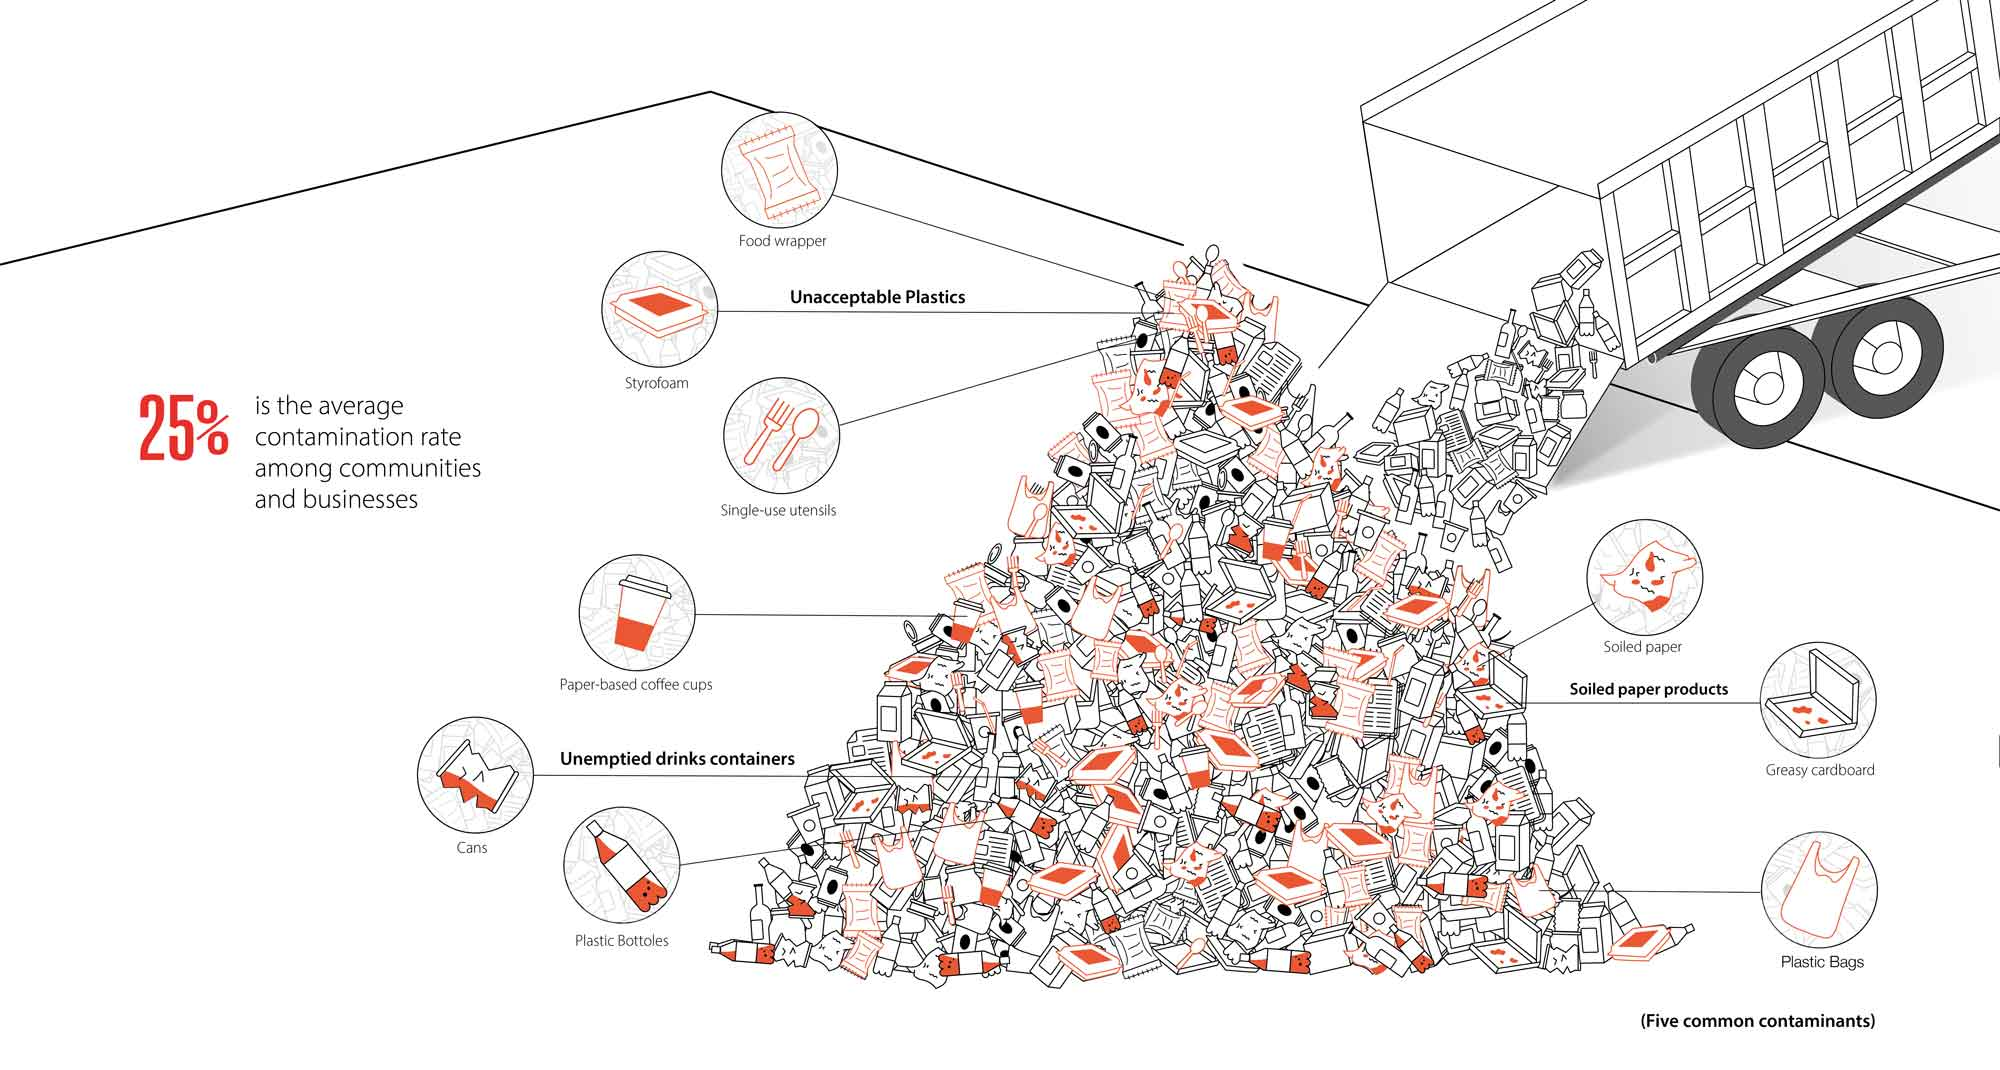
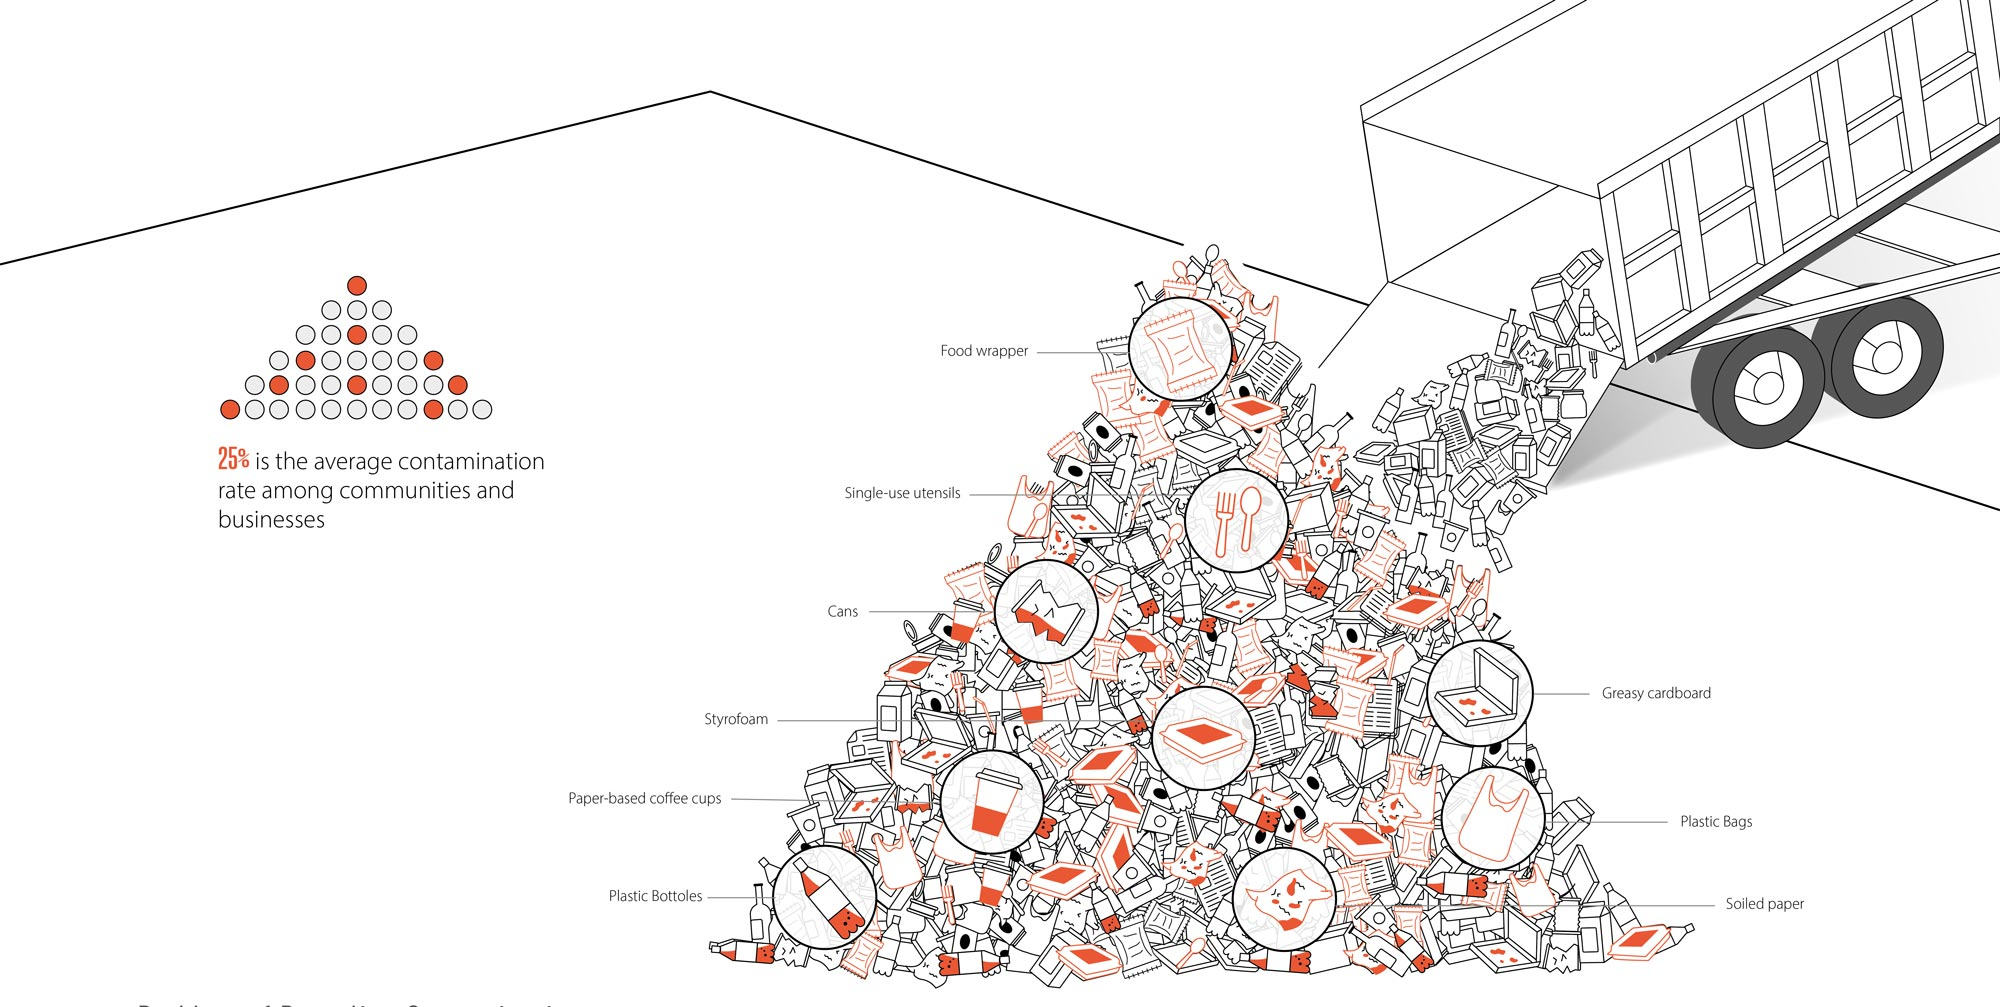
update

diff --git a/_projects/yuan.html b/_projects/yuan.html
@@ -301,7 +301,7 @@ advisor: "Thomas Starr"
 
 	<div class="flow-half">
 		<img src="{{ site.baseurl }}/assets/images/yuan/motivator3.png" alt="motivator3" style="width: 60%;">
-		<p style="color:gray">This infographic tries to inform the reader by deconstructing the ingredients of a hot/iced coffee cup to show which material is recyclable or not. It color-codes the recyclable materials in green and non-recyclable materials in red.</p>
+		<p style="color:gray">This infographic centers on the average contamination rate 25%. It sets the scene on the tipping floor in the MRF and uses graphics to embody the data. The red dots in the left diagram coordinate with the red contaminants in the pile of recycling garbage on the right.</p>
 
 	</div>
 
